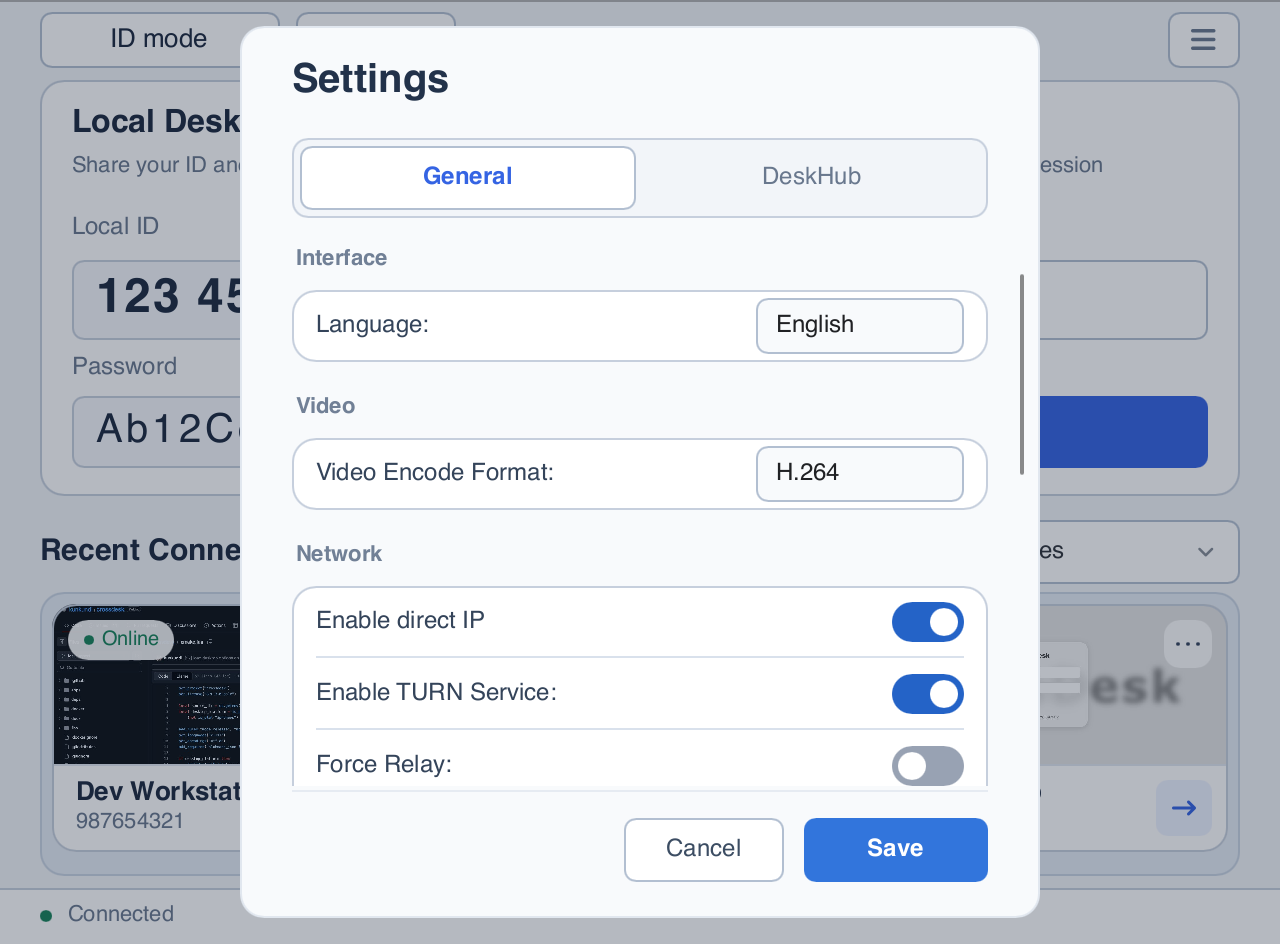
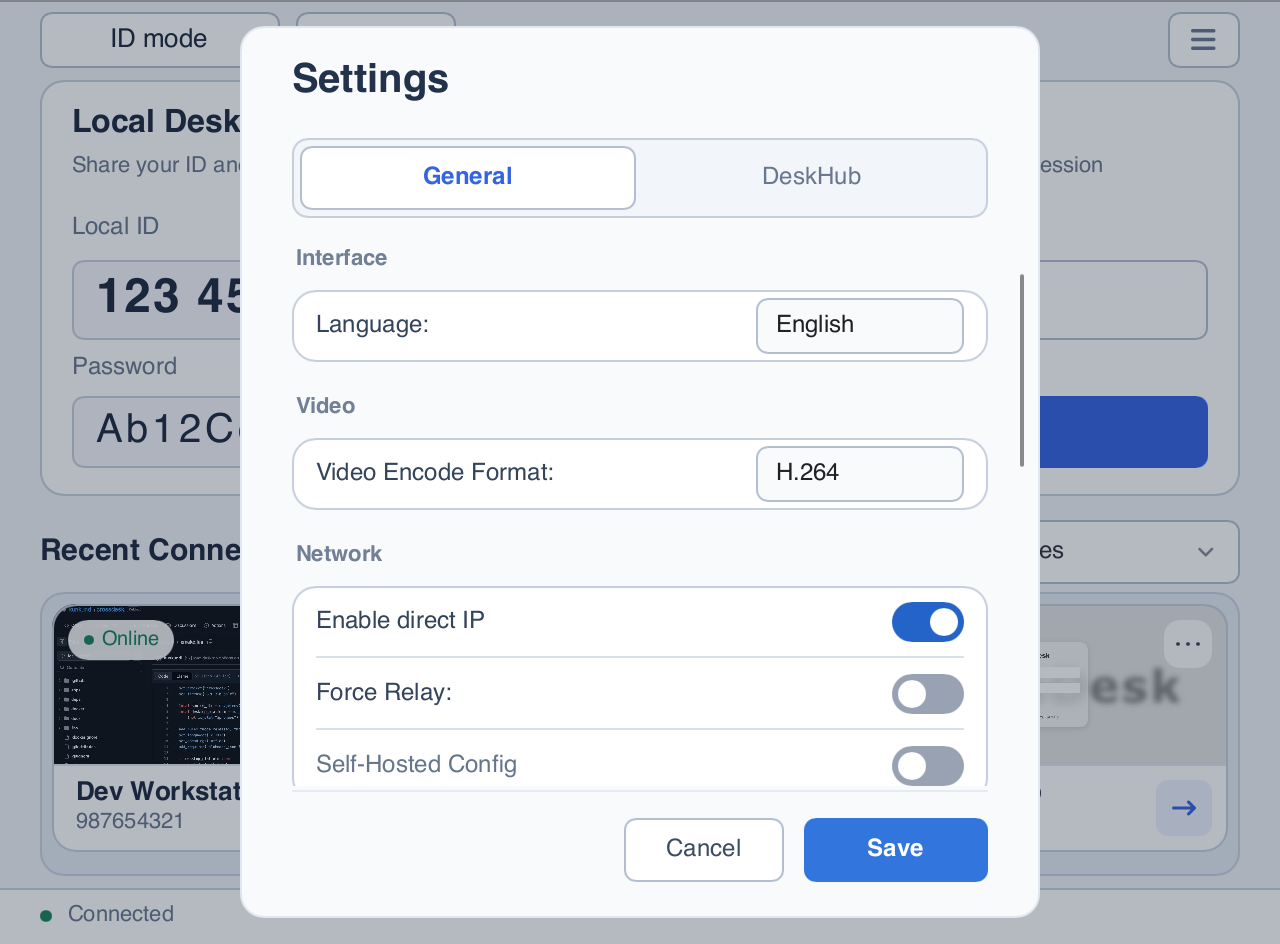
[ui] remove TURN service toggle and simplify relay settings

Changed region(s): [[0.25, 0.7066, 0.4375, 0.768], [0.25, 0.7987, 0.4062, 0.8294], [0.6875, 0.7066, 0.75, 0.768]]

diff --git a/apps/desktop/src/gui/application/gui_application.cpp b/apps/desktop/src/gui/application/gui_application.cpp
@@ -1488,7 +1488,6 @@ void GuiApplication::ResetSettingsUi(bool gallery_window) {
   auto& main = ui_->Window(gallery_window);
   main->set_language_index(language_button_value_);
   main->set_codec_index(video_encode_format_button_value_);
-  main->set_turn_enabled(enable_turn_);
   main->set_ip_direct_enabled_draft(config_center_->IsIpDirectEnabled());
   main->set_settings_save_error("");
   main->set_force_relay_enabled(config_center_->IsForceRelay());
@@ -4559,7 +4558,6 @@ bool GuiApplication::SaveSettingsFromUi(bool gallery_window) {
   language_button_value_ =
       localization::detail::ClampLanguageIndex(main->get_language_index());
   video_encode_format_button_value_ = std::clamp(main->get_codec_index(), 0, 1);
-  enable_turn_ = main->get_turn_enabled();
   enable_self_hosted_ = main->get_self_hosted_enabled();
 #if !defined(__OHOS__)
   enable_autostart_ = main->get_autostart_enabled();
@@ -4575,7 +4573,7 @@ bool GuiApplication::SaveSettingsFromUi(bool gallery_window) {
   config_center_->SetVideoEncodeFormat(
       static_cast<ConfigCenter::VIDEO_ENCODE_FORMAT>(
           video_encode_format_button_value_));
-  config_center_->SetTurn(enable_turn_, main->get_force_relay_enabled());
+  config_center_->SetForceRelay(main->get_force_relay_enabled());
   main->set_force_relay_enabled(config_center_->IsForceRelay());
 #if !defined(__OHOS__)
   config_center_->SetAutostart(enable_autostart_);
@@ -4641,7 +4639,6 @@ void GuiApplication::ApplySettingsFromConfig(bool reconnect) {
   localization_language_index_ = localization::detail::ClampLanguageIndex(language_button_value_);
   localization_language_ = config_center_->GetLanguage();
   video_encode_format_button_value_ = static_cast<int>(config_center_->GetVideoEncodeFormat());
-  enable_turn_ = config_center_->IsEnableTurn();
   enable_self_hosted_ = config_center_->IsSelfHosted();
   enable_autostart_ = config_center_->IsEnableAutostart();
   enable_daemon_ = config_center_->IsEnableDaemon();
@@ -4655,7 +4652,6 @@ void GuiApplication::ApplySettingsFromConfig(bool reconnect) {
   std::snprintf(signal_server_port_self_, sizeof(signal_server_port_self_), "%s", port_text.c_str());
   language_button_value_last_ = language_button_value_;
   video_encode_format_button_value_last_ = video_encode_format_button_value_;
-  enable_turn_last_ = enable_turn_;
   enable_self_hosted_last_ = enable_self_hosted_;
   enable_autostart_last_ = enable_autostart_;
   enable_daemon_last_ = enable_daemon_;

diff --git a/apps/desktop/src/gui/features/settings/settings_manager.cpp b/apps/desktop/src/gui/features/settings/settings_manager.cpp
@@ -465,7 +465,6 @@ int SettingsManager::Load() {
       static_cast<int>(owner_.config_center_->GetLanguage()));
   owner_.video_encode_format_button_value_ =
       static_cast<int>(owner_.config_center_->GetVideoEncodeFormat());
-  owner_.enable_turn_ = owner_.config_center_->IsEnableTurn();
   owner_.enable_self_hosted_ = owner_.config_center_->IsSelfHosted();
   owner_.enable_autostart_ = owner_.config_center_->IsEnableAutostart();
   owner_.enable_daemon_ = owner_.config_center_->IsEnableDaemon();
@@ -484,7 +483,6 @@ int SettingsManager::Load() {
   owner_.language_button_value_last_ = owner_.language_button_value_;
   owner_.video_encode_format_button_value_last_ =
       owner_.video_encode_format_button_value_;
-  owner_.enable_turn_last_ = owner_.enable_turn_;
   owner_.enable_self_hosted_last_ = owner_.enable_self_hosted_;
   owner_.enable_autostart_last_ = owner_.enable_autostart_;
 

diff --git a/apps/desktop/src/config_center/config_center.h b/apps/desktop/src/config_center/config_center.h
@@ -41,7 +41,7 @@ class ConfigCenter {
   int SetScreenCaptureMethod(ScreenCaptureMethod method);
   int SetVideoEncodeFormat(VIDEO_ENCODE_FORMAT video_encode_format);
   int SetTurnMode(TURN_MODE turn_mode);
-  int SetTurn(bool enable_turn, bool force_relay);
+  int SetForceRelay(bool force_relay);
   int SetServerHost(const std::string& signal_server_host);
   int SetServerPort(int signal_server_port);
   int SetServerEndpoint(const std::string& address, int port);
@@ -63,7 +63,6 @@ class ConfigCenter {
   ScreenCaptureMethod GetScreenCaptureMethod() const;
   VIDEO_ENCODE_FORMAT GetVideoEncodeFormat() const;
   TURN_MODE GetTurnMode() const;
-  bool IsEnableTurn() const;
   bool IsForceRelay() const;
   bool IsEnableSrtp() const;
   std::string GetSignalServerHost() const;

diff --git a/apps/desktop/src/gui/assets/localization/localization_data.h b/apps/desktop/src/gui/assets/localization/localization_data.h
@@ -237,8 +237,6 @@ struct TranslationRow {
     "Video Encode Format:", u8"Формат кодека видео:")                          \
   X(av1, u8"AV1", "AV1", "AV1")                                                \
   X(h264, u8"H.264", "H.264", "H.264")                                         \
-  X(enable_turn, u8"启用中继服务:",                                            \
-    "Enable TURN Service:", u8"Включить TURN-сервис:")                         \
   X(force_relay, u8"强制中继连接:", "Force Relay:", u8"Только через реле:")   \
   X(self_hosted_server_config, u8"自托管配置", "Self-Hosted Config",           \
     u8"Конфигурация self-hosted")                                              \

diff --git a/apps/desktop/src/config_center/config_center.cpp b/apps/desktop/src/config_center/config_center.cpp
@@ -319,10 +319,7 @@ int ConfigCenter::SetTurnMode(TURN_MODE mode) {
   return 0;
 }
 
-int ConfigCenter::SetTurn(bool enable_turn, bool force_relay) {
-  if (!enable_turn) {
-    return SetTurnMode(TURN_MODE::DISABLED);
-  }
+int ConfigCenter::SetForceRelay(bool force_relay) {
   if (!force_relay) {
     return SetTurnMode(TURN_MODE::AUTO_UDP_TCP);
   }
@@ -477,10 +474,6 @@ ConfigCenter::VIDEO_ENCODE_FORMAT ConfigCenter::GetVideoEncodeFormat() const {
 
 ConfigCenter::TURN_MODE ConfigCenter::GetTurnMode() const {
   return turn_mode_;
-}
-
-bool ConfigCenter::IsEnableTurn() const {
-  return turn_mode_ != TURN_MODE::DISABLED;
 }
 
 bool ConfigCenter::IsForceRelay() const {

diff --git a/apps/desktop/src/gui/runtime/runtime_state.h b/apps/desktop/src/gui/runtime/runtime_state.h
@@ -150,13 +150,11 @@ struct UserSettingsState {
   char connection_login_identity_[17] = "";
   int language_button_value_ = 0;
   int video_encode_format_button_value_ = 0;
-  bool enable_turn_ = true;
   char signal_server_ip_[256] = "api.crossdesk.cn";
   char signal_server_port_[6] = "9099";
   bool enable_self_hosted_ = false;
   int language_button_value_last_ = 0;
   int video_encode_format_button_value_last_ = 0;
-  bool enable_turn_last_ = true;
   bool enable_self_hosted_last_ = false;
   bool enable_autostart_ = false;
   bool enable_autostart_last_ = false;

diff --git a/apps/desktop/src/gui/ui/ui_localization.h b/apps/desktop/src/gui/ui/ui_localization.h
@@ -93,7 +93,6 @@ inline int ApplyMainWindowStrings(
   strings.set_capture_method_auto(
       Text(localization::screen_capture_method_auto[language]));
   strings.set_codec(Text(localization::video_encode_format[language]));
-  strings.set_turn_relay(Text(localization::enable_turn[language]));
   strings.set_force_relay(Text(localization::force_relay[language]));
   strings.set_self_hosted(
       Text(localization::self_hosted_server_config[language]));

diff --git a/docs/images/README.md b/docs/images/README.md
@@ -4,6 +4,7 @@
 
 ## 来源 / Sources
 
+- **2026-10-25** 删除“启用中继服务”开关后，从当前工作区组件重新生成 `desktop-settings-*` 和 `desktop-settings-network-*` 共 4 张中英文截图，展示可独立操作的“强制中继连接”。
 - **2026-10-25** 从 `ae6f81e8` 的实际 Slint 组件重新生成 16 张中英文截图：更新主窗口、常规设置、桌面墙设置、自托管及关于共 10 张，新增 IP 直连主界面、记住密码弹窗和网络设置共 6 张。使用 Slint 1.17.1、macOS arm64 和 2× 软件渲染。
 - 捕获程序在**工程外临时目录**中复用现有 [`slint_ui_smoke_test`](../../apps/desktop/tests/slint_ui_smoke_test.cpp) 的截图辅助函数，并注入演示界面状态；没有启动应用运行时、打开监听端口或建立远控会话。没有修改产品组件或工程内测试，临时源码、可执行程序与 PPM 均位于工程外。
 - 主窗口展示 ID / IP 模式切换、桌面墙入口和各自的近期设备；IP 模式展示地址编辑、六位密码和默认端口 52888，网络设置展示“启用 IP 直连”及关闭说明。IP 近期设备的 `LAN` 标记表示记录类型，不代表在线探测结果。
@@ -13,7 +14,7 @@
 - 缩略图沿用既有公开页面截图：`fixtures/source.png` 来自 [CrossDesk Xmake 源码页](https://github.com/kunkundi/crossdesk/blob/ios-support/xmake.lua)，`fixtures/website.png` 来自 [CrossDesk 官网](https://www.crossdesk.cn/)，两者采集于 2026-09-07。它们只用于展示预览效果，不代表这些页面正在对应设备上运行，页面中的版本信息也不代表最新发布。
 - `web-client.png` 保留 **2026-09-25** 从 [Web 客户端](https://web.crossdesk.cn/) 采集的 1280 × 720 连接首页，页面版本为 `2026.09.24.2`，ID 与密码为空。本次未重新采集 Web 页面；桌面设备预览继续复用这张图片。
 
-On **2026-10-25**, 16 images were rendered from the actual Slint components at `ae6f81e8`: ten refreshed images (main window, General settings, DeskHub settings, self-hosting, and About) and six additions (Direct IP mode, its password dialog, and Network settings), in Chinese and English. The capture-only program reused the existing helper functions in an external temporary directory, using Slint 1.17.1 on macOS arm64 at 2× scale. No product components or repository tests were changed, and no listeners or remote sessions were opened. IDs, IPs, passwords, device records, connection states, and update results are illustrative; `LAN` labels indicate record type, not an online check. The checked Remember password box is a demonstration choice. The other six desktop screenshots remain from 2026-10-19, public-page fixtures from 2026-09-07, and the Web image from 2026-09-25. Native mobile screenshots are not included.
+On **2026-10-25**, 16 images were rendered from the actual Slint components at `ae6f81e8`: ten refreshed images (main window, General settings, DeskHub settings, self-hosting, and About) and six additions (Direct IP mode, its password dialog, and Network settings), in Chinese and English. Later that day, the four General and Network settings images were refreshed from the working tree after removing Enable TURN Service, showing the independent Force Relay switch. The capture-only program reused the existing helper functions in an external temporary directory, using Slint 1.17.1 on macOS arm64 at 2× scale. Capture did not modify product components or repository tests, and no listeners or remote sessions were opened. IDs, IPs, passwords, device records, connection states, and update results are illustrative; `LAN` labels indicate record type, not an online check. The checked Remember password box is a demonstration choice. The other six desktop screenshots remain from 2026-10-19, public-page fixtures from 2026-09-07, and the Web image from 2026-09-25. Native mobile screenshots are not included.
 
 ## 文件 / Files
 
@@ -112,7 +113,6 @@ int main() {
       !RegisterFontAwesome(server->window())) return 2;
   window->set_local_id("123 456 789");
   window->set_local_password("Ab12Cd");
-  window->set_turn_enabled(true);
   window->window().set_size(slint::LogicalSize({640.0f, 472.0f}));
   return RunCaptureMode(options, window, stream, server);
 }

diff --git a/docs/USER_GUIDE_EN.md b/docs/USER_GUIDE_EN.md
@@ -149,8 +149,7 @@ Open **☰ → Settings** in the top-right corner, choose **General / DeskHub**,
 | Capture Method (Windows) | Auto / DXGI / WGC / GDI; choose Auto for automatic headless adaptation |
 | Video Encode Format | H.264 / AV1; H.264 automatically prefers hardware codecs, with software fallback when unavailable or initialization fails; desktop AV1 uses software codecs |
 | Enable direct IP | Enabled by default; saving starts or stops direct IP immediately. Disabling disconnects IP sessions, stops listeners, and hides the mode button; the choice persists across restarts |
-| Enable TURN Service | Allow relay-assisted connections; check this setting if P2P fails |
-| Force Relay | Require relay connections when TURN is enabled; turning TURN off also disables this option |
+| Force Relay | When off, automatically select a connection path with P2P and TURN relay fallback; when on, use relay connections only |
 | Save remote screen previews | On by default. When disabled, the thumbnail area shows the remote device’s platform and existing previews are cleared; connection records and passwords are preserved |
 | Privacy screen on connect | Automatically enable privacy when this computer is controlled remotely; the controller can toggle it from the session toolbar |
 | Self-Hosted Config | Set the server address and signaling port, then enable the checkbox |

diff --git a/docs/USER_GUIDE.md b/docs/USER_GUIDE.md
@@ -149,8 +149,7 @@ sudo apt install "./crossdesk-virtual-desktop-xfce-linux-amd64-<version>.deb"
 | 采集方式（Windows） | 自动 / DXGI / WGC / GDI；无显示器主机使用“自动”启用自动适配 |
 | 视频编码格式 | H.264 / AV1；H.264 自动优先使用硬件编解码，不可用或初始化失败时回退到软件；桌面端 AV1 使用软件编解码 |
 | 启用 IP 直连 | 默认开启；保存后即时启停 IP 直连。关闭会断开 IP 会话、停止监听并隐藏主窗口模式按钮，重启后保持 |
-| 启用中继服务 | 允许借助 TURN 中继建立连接；P2P 连接失败时先检查此项 |
-| 强制中继连接 | 启用中继服务后可勾选，让连接通过中继建立；关闭中继服务会同时关闭此项 |
+| 强制中继连接 | 关闭时自动选择连接方式，允许 P2P 和 TURN 中继回退；开启时仅通过中继连接 |
 | 保存远程画面预览 | 默认开启，保存远程画面预览；关闭后缩略图区域显示被控端平台，并清除已有预览，保留连接记录和密码 |
 | 被连接时开启隐私屏 | 设置本机被远程连接时是否自动启用隐私屏；会话中可从控制端工具栏切换 |
 | 自托管配置 | 填写服务器地址和信令服务端口，并勾选启用 |

diff --git a/docs/SELF_HOSTING.md b/docs/SELF_HOSTING.md
@@ -95,7 +95,7 @@ sudo security add-trusted-cert -d -r trustRoot \
 
 - **未连接服务器 / TLS 错误：** 先检查地址、信令端口、证书有效期、证书主机名及根证书信任。
 - **已连服务器但设备离线：** 确认两端连接同一服务、被控端仍在运行，并重新复制当前 ID。
-- **P2P 连接失败：** 检查“启用中继服务”、Coturn 状态、TURN 端口和媒体端口范围，并核对客户端与服务端版本兼容性。
+- **P2P 连接失败：** 默认已允许中继回退；可开启“强制中继连接”排查直连问题。检查 Coturn 状态、TURN 端口和媒体端口范围，并核对客户端与服务端版本兼容性。
 - **配置修改未生效：** 在配置目录重新执行 `sudo docker compose up -d`；单纯重启容器不会应用修改过的环境变量。
 
 日志、备份和迁移操作请参考 [服务端维护说明](https://github.com/kunkundi/crossdesk-server)。
